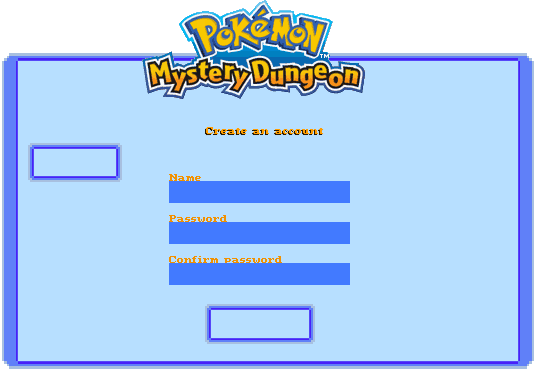
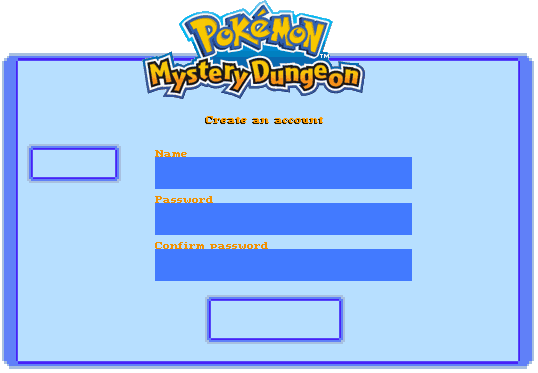
various improvements + account creation state

Changed region(s): [[0.2677, 0.3834, 0.7732, 0.9437], [0.3569, 0.2949, 0.5948, 0.3834], [0.0297, 0.3834, 0.2379, 0.5013]]

diff --git a/PMDMMOc/src/com/darkxell/client/state/mainstates/AccountCreationState.java b/PMDMMOc/src/com/darkxell/client/state/mainstates/AccountCreationState.java
@@ -6,6 +6,7 @@ import java.awt.event.KeyEvent;
 
 import com.darkxell.client.launchable.Persistance;
 import com.darkxell.client.mechanics.chat.CustomTextfield;
+import com.darkxell.client.resources.images.others.Hud;
 import com.darkxell.client.state.StateManager;
 import com.darkxell.client.ui.MainUiUtility;
 import com.darkxell.common.util.DoubleRectangle;
@@ -31,12 +32,14 @@ public class AccountCreationState extends StateManager {
 	private int mouseY = 1;
 	private int offsetx = 100;
 	private int offsety = 20;
-	private boolean focus_login = true;
-	private boolean focus_pass = false;
-
+	
+	private String errormessage = "Template error message";
+	
 	@Override
 	public void onKeyPressed(KeyEvent e, short key) {
-
+		login.onKeyPressed(e);
+		password.onKeyPressed(e);
+		confirm.onKeyPressed(e);
 	}
 
 	@Override
@@ -46,14 +49,14 @@ public class AccountCreationState extends StateManager {
 
 	@Override
 	public void onKeyTyped(KeyEvent e) {
-		if (focus_login)
-			this.login.insertString(e.getKeyChar() + "");
-		if (focus_pass)
-			this.password.insertString(e.getKeyChar() + "");
+		login.onKeyTyped(e);
+		password.onKeyTyped(e);
+		confirm.onKeyTyped(e);
 	}
 
 	@Override
 	public void onMouseClick(int x, int y) {
+		// Button clicks
 		if (button_create.isInside(new Position(mouseX - offsetx, mouseY - offsety))) {
 			Persistance.stateManager = new LoginMainState();
 			// Sends the account creation payload to the server
@@ -62,17 +65,26 @@ public class AccountCreationState extends StateManager {
 					.add("passhash", this.password.getContent());
 			message = mess.toString();
 			Persistance.socketendpoint.sendMessage(message);
-			System.out.println(message);
+		} else if (button_back.isInside(new Position(mouseX - offsetx, mouseY - offsety))) {
+			Persistance.stateManager = new LoginMainState();
 		}
+		// Textfield focus
 		if (textfield_login.isInside(new Position(mouseX - offsetx, mouseY - offsety))) {
-			this.login.setSelection(focus_login = true);
-			this.password.setSelection(focus_pass = false);
+			this.login.setSelection(true);
+			this.password.setSelection(false);
+			this.confirm.setSelection(false);
 		} else if (textfield_pass.isInside(new Position(mouseX - offsetx, mouseY - offsety))) {
-			this.login.setSelection(focus_login = false);
-			this.password.setSelection(focus_pass = true);
+			this.login.setSelection(false);
+			this.password.setSelection(true);
+			this.confirm.setSelection(false);
+		} else if (textfield_confirm.isInside(new Position(mouseX - offsetx, mouseY - offsety))) {
+			this.login.setSelection(false);
+			this.password.setSelection(false);
+			this.confirm.setSelection(true);
 		} else {
-			this.login.setSelection(focus_login = false);
-			this.password.setSelection(focus_pass = false);
+			this.login.setSelection(false);
+			this.password.setSelection(false);
+			this.confirm.setSelection(false);
 		}
 	}
 
@@ -87,9 +99,11 @@ public class AccountCreationState extends StateManager {
 
 	}
 
-	private DoubleRectangle textfield_login = new DoubleRectangle(40, 30, 400, 45);
-	private DoubleRectangle textfield_pass = new DoubleRectangle(40, 130, 400, 45);
-	private DoubleRectangle button_create = new DoubleRectangle(150, 230, 150, 55);
+	private DoubleRectangle textfield_login = new DoubleRectangle(155, 157, 257, 32);
+	private DoubleRectangle textfield_pass = new DoubleRectangle(155, 203, 257, 32);
+	private DoubleRectangle textfield_confirm = new DoubleRectangle(155, 249, 257, 32);
+	private DoubleRectangle button_create = new DoubleRectangle(211, 301, 128, 38);
+	private DoubleRectangle button_back = new DoubleRectangle(33, 150, 82, 27);
 
 	@Override
 	public void render(Graphics2D g, int width, int height) {
@@ -98,16 +112,9 @@ public class AccountCreationState extends StateManager {
 		offsety = height / 2 - squareheight / 2;
 		int relativemousex = mouseX - offsetx, relativemousey = mouseY - offsety;
 		g.translate(offsetx, offsety);
-		// DRAWS THE LOGIN FACILITIES
-		g.setColor(new Color(63, 197, 255, 105));
-		g.fillRect(0, 0, squarewidth, squareheight);
-		MainUiUtility.drawBoxOutline(g, 0, 0, squarewidth, squareheight);
-		g.setColor(Color.BLUE);
-		g.fillRect((int) textfield_login.x, (int) textfield_login.y, (int) textfield_login.width,
-				(int) textfield_login.height);
-		g.fillRect((int) textfield_pass.x, (int) textfield_pass.y, (int) textfield_pass.width,
-				(int) textfield_pass.height);
-
+		// DRAWS THE ACCOUNT CREATION FACILITIES
+		g.drawImage(Hud.createaccountframe, 0, 0, null);
+		
 		g.translate(textfield_login.x + 10, textfield_login.y);
 		this.login.render(g, (int) textfield_login.width - 20, (int) textfield_login.height - 15);
 		g.translate(-textfield_login.x - 10, -textfield_login.y);
@@ -116,14 +123,22 @@ public class AccountCreationState extends StateManager {
 		this.password.render(g, (int) textfield_pass.width - 20, (int) textfield_pass.height - 15);
 		g.translate(-textfield_pass.x - 10, -textfield_pass.y);
 
-		g.setColor(Color.WHITE);
-		g.drawString("LOGIN", (int) textfield_login.x, (int) textfield_login.y - 10);
-		g.drawString("PASSWORD", (int) textfield_pass.x, (int) textfield_pass.y - 10);
+		g.translate(textfield_confirm.x + 10, textfield_confirm.y);
+		this.confirm.render(g, (int) textfield_confirm.width - 20, (int) textfield_confirm.height - 15);
+		g.translate(-textfield_confirm.x - 10, -textfield_confirm.y);
 
-		g.setColor((button_create.isInside(new Position(relativemousex, relativemousey))) ? Color.CYAN : Color.GREEN);
+		Color buttoncolor = new Color(124, 163, 255), selectedbuttoncolor = new Color(183, 222, 255);
+		g.setColor((button_create.isInside(new Position(relativemousex, relativemousey))) ? selectedbuttoncolor
+				: buttoncolor);
 		g.fillRect((int) button_create.x, (int) button_create.y, (int) button_create.width, (int) button_create.height);
 		g.setColor(Color.BLACK);
-		g.drawString("CREATE ACCOUNT", (int) button_create.x + 20, (int) button_create.y + 30);
+		g.drawString("CREATE ACCOUNT", (int) button_create.x + 8, (int) button_create.y + 25);
+
+		g.setColor((button_back.isInside(new Position(relativemousex, relativemousey))) ? selectedbuttoncolor
+				: buttoncolor);
+		g.fillRect((int) button_back.x, (int) button_back.y, (int) button_back.width, (int) button_back.height);
+		g.setColor(Color.BLACK);
+		g.drawString("BACK", (int) button_back.x + 10, (int) button_back.y + 15);
 
 		// REVERT GRAPHICS
 		g.translate(-offsetx, -offsety);
@@ -133,9 +148,11 @@ public class AccountCreationState extends StateManager {
 	public void update() {
 		this.login.update();
 		this.password.update();
+		this.confirm.update();
 		if (firstupdate) {
 			firstupdate = false;
 			this.password.setSelection(false);
+			this.confirm.setSelection(false);
 		}
 	}
 

diff --git a/PMDMMOc/src/com/darkxell/client/launchable/GameSocketEndpoint.java b/PMDMMOc/src/com/darkxell/client/launchable/GameSocketEndpoint.java
@@ -31,7 +31,7 @@ public class GameSocketEndpoint {
 		try {
 			this.endpointURI = new URI("ws://" + ClientSettings.getSetting(ClientSettings.SERVER_ADDRESS) + "game");
 		} catch (URISyntaxException e) {
-			e.printStackTrace();
+			Logger.e("Could not create a valid URI to: ws://" + ClientSettings.getSetting(ClientSettings.SERVER_ADDRESS) + "game");
 		}
 		thr = new Thread(new Runnable() {
 
@@ -48,9 +48,8 @@ public class GameSocketEndpoint {
 			WebSocketContainer container = ContainerProvider.getWebSocketContainer();
 			container.connectToServer(this, this.endpointURI);
 		} catch (Exception e) {
-			e.printStackTrace();
 			this.connectionStatus = FAILED;
-			Logger.e("Could not connect to the server for game communication");
+			Logger.e("Could not connect to the server for game communication : "+e.toString());
 		}
 	}
 
@@ -74,8 +73,8 @@ public class GameSocketEndpoint {
 			Logger.i("Game socket connected to the server sucessfully.");
 			this.connectionStatus = CONNECTED;
 		} catch (Exception e) {
-			Logger.e("Could not aggree with the server for a valid session");
-			e.printStackTrace();
+			Logger.e("Could not aggree with the server for a valid session : " + e.toString());
+			
 		}
 	}
 
@@ -119,7 +118,12 @@ public class GameSocketEndpoint {
 	 * @param message
 	 */
 	public void sendMessage(String message) {
-		this.userSession.getAsyncRemote().sendText(message);
+		try {
+			this.userSession.getAsyncRemote().sendText(message);
+		} catch (Exception e) {
+			Logger.e("Could not send message to server socket.");
+		}
+
 	}
 
 }

diff --git a/PMDMMOc/src/com/darkxell/client/resources/music/Song.java b/PMDMMOc/src/com/darkxell/client/resources/music/Song.java
@@ -5,6 +5,8 @@ import java.util.Map;
 
 import javax.sound.sampled.AudioFileFormat;
 
+import com.darkxell.common.util.Logger;
+
 import javazoom.spi.mpeg.sampled.file.MpegAudioFileReader;
 
 public class Song {
@@ -35,7 +37,7 @@ public class Song {
 			this.author = (String) properties.get("author");
 			this.name = (String) properties.get("title");
 		} catch (Exception e) {
-			e.printStackTrace();
+			Logger.e("Could not read song properties properly : " + e);
 		}
 		File tempfile = new File(path);
 		this.displayname = tempfile.getName();
@@ -61,9 +63,9 @@ public class Song {
 	 * Note : I'm aware that this is not hte best method to get it, but I just
 	 * couldn't find something better. <br/>
 	 * <strong>Deprecated :</strong> this method has been deprecated due to high
-	 * and not necessary CPU usage. MP3 length can now
-	 * be obtained by creating a Song Object with the filepath, and using the
-	 * public Song.length attribute.
+	 * and not necessary CPU usage. MP3 length can now be obtained by creating a
+	 * Song Object with the filepath, and using the public Song.length
+	 * attribute.
 	 */
 	@Deprecated
 	public static int getmp3Length(File file) {
@@ -75,7 +77,7 @@ public class Song {
 			long duration = (long) properties.get("duration");
 			return (int) duration / 1000;
 		} catch (Exception e) {
-			e.printStackTrace();
+			Logger.e("Could not obtain song length : " + e);
 			return 0;
 		}
 	}

diff --git a/PMDMMOc/src/com/darkxell/client/launchable/ClientSettings.java b/PMDMMOc/src/com/darkxell/client/launchable/ClientSettings.java
@@ -4,6 +4,8 @@ import java.awt.event.KeyEvent;
 import java.io.*;
 import java.util.Properties;
 
+import com.darkxell.common.util.Logger;
+
 public class ClientSettings {
 	public static final String KEY_UP = "key.up", KEY_DOWN = "key.down", KEY_LEFT = "key.left", KEY_RIGHT = "key.right", KEY_ATTACK = "key.attack",
 			KEY_ROTATE = "key.rotate", KEY_RUN = "key.run", KEY_DIAGONAL = "key.diagonal", KEY_MENU = "key.menu", KEY_MOVE_1 = "key.move1",
@@ -81,9 +83,9 @@ public class ClientSettings {
 			try {
 				settings.load(new FileInputStream(f));
 			} catch (FileNotFoundException e) {
-				e.printStackTrace();
+				Logger.e("Could not find settings.properties : " + e);
 			} catch (IOException e) {
-				e.printStackTrace();
+				Logger.e("Could not open settings.properties : " + e);
 			}
 	}
 
@@ -96,9 +98,9 @@ public class ClientSettings {
 		try {
 			settings.store(new FileOutputStream(new File("resources/settings.properties")), null);
 		} catch (FileNotFoundException e) {
-			e.printStackTrace();
+			Logger.e("Could not find settings.properties : " + e);
 		} catch (IOException e) {
-			e.printStackTrace();
+			Logger.e("Could not open settings.properties : " + e);
 		}
 	}
 

diff --git a/PMDMMOc/src/com/darkxell/client/resources/Res.java b/PMDMMOc/src/com/darkxell/client/resources/Res.java
@@ -11,10 +11,12 @@ import com.darkxell.common.util.Logger;
 /** Class that holds commonly used resources utility. */
 public class Res {
 
-	/** @param path - Path to a resource.
-	 * @return True if the resource exists. */
-	public static boolean exists(String path)
-	{
+	/**
+	 * @param path
+	 *            - Path to a resource.
+	 * @return True if the resource exists.
+	 */
+	public static boolean exists(String path) {
 		return Res.class.getResourceAsStream(path) != null;
 	}
 
@@ -29,7 +31,7 @@ public class Res {
 			try {
 				img = ImageIO.read(new File(path));
 			} catch (Exception e1) {
-				e.printStackTrace();
+				Logger.e("Could not read the following image file : " + path + "\nerrors : " + e + " / " + e1);
 			}
 		}
 		Logger.instance().debug("Loaded resource from hard memory : " + path);
@@ -77,8 +79,7 @@ public class Res {
 		return toreturn;
 	}
 
-	public static File getFile(String path)
-	{
+	public static File getFile(String path) {
 		return new File(Res.class.getResource(path).getFile());
 	}
 

diff --git a/PMDMMOc/src/com/darkxell/client/mechanics/chat/ChatClientEndpoint.java b/PMDMMOc/src/com/darkxell/client/mechanics/chat/ChatClientEndpoint.java
@@ -35,7 +35,7 @@ public class ChatClientEndpoint {
 			WebSocketContainer container = ContainerProvider.getWebSocketContainer();
 			container.connectToServer(this, this.endpointURI);
 		} catch (Exception e) {
-			e.printStackTrace();
+			Logger.e("Could not connect to chat server : " + e);
 			this.connectionStatus = FAILED;
 		}
 	}
@@ -85,8 +85,7 @@ public class ChatClientEndpoint {
 			JsonValue obj = Json.parse(message);
 			holder.messages.add(new ChatMessage(obj));
 		} catch (Exception e) {
-			Logger.w("Could not add the recieved message to messages list : " + message);
-			e.printStackTrace();
+			Logger.e("Could not add the recieved message to messages list : " + message + " / " + e);
 		}
 
 	}

diff --git a/PMDMMOc/src/com/darkxell/client/mechanics/freezones/FreezoneMap.java b/PMDMMOc/src/com/darkxell/client/mechanics/freezones/FreezoneMap.java
@@ -11,6 +11,7 @@ import com.darkxell.client.launchable.Persistance;
 import com.darkxell.client.mechanics.freezones.entities.OtherPlayerEntity;
 import com.darkxell.client.resources.images.tilesets.AbstractTileset;
 import com.darkxell.client.state.map.LocalMap.LOCALMAPLOCATION;
+import com.darkxell.common.util.Logger;
 import com.eclipsesource.json.JsonValue;
 
 /**
@@ -61,7 +62,7 @@ public abstract class FreezoneMap {
 				}
 			}
 		} catch (Exception e) {
-			e.printStackTrace();
+			Logger.e("Could not build freezonemap from XML file : " + e);
 		}
 	}
 

diff --git a/PMDMMOc/src/com/darkxell/client/resources/images/others/Hud.java b/PMDMMOc/src/com/darkxell/client/resources/images/others/Hud.java
@@ -13,5 +13,6 @@ public class Hud {
 	public static final BufferedImage textwindow_transparent = Res.getBase("/hud/textwindow_transparent.png");
 	public static final BufferedImage gametitle = Res.getBase("/hud/title.png");
 	public static final BufferedImage loginframe = Res.getBase("/hud/login.png");
+	public static final BufferedImage createaccountframe = Res.getBase("/hud/create.png");
 
 }

diff --git a/PMDMMOc/src/com/darkxell/client/mechanics/chat/ChatBox.java b/PMDMMOc/src/com/darkxell/client/mechanics/chat/ChatBox.java
@@ -40,7 +40,7 @@ public class ChatBox {
 			URI servwslocation = new URI(loc);
 			endpoint = new ChatClientEndpoint(servwslocation, this);
 		} catch (URISyntaxException e) {
-			e.printStackTrace();
+			Logger.e("Could not connect to the chat socket : " + e.toString());
 		}
 		this.thread = new Thread(new Runnable() {
 			@Override

diff --git a/PMDMMOc/src/com/darkxell/client/state/FreezoneExploreState.java b/PMDMMOc/src/com/darkxell/client/state/FreezoneExploreState.java
@@ -179,7 +179,6 @@ public class FreezoneExploreState extends AbstractState {
 					Persistance.socketendpoint.sendMessage(message);
 				} catch (Exception e) {
 					Logger.w("Could not send freezone information message to the server.");
-					e.printStackTrace();
 				}
 			}
 		else if (serversynccooldown != -1)
